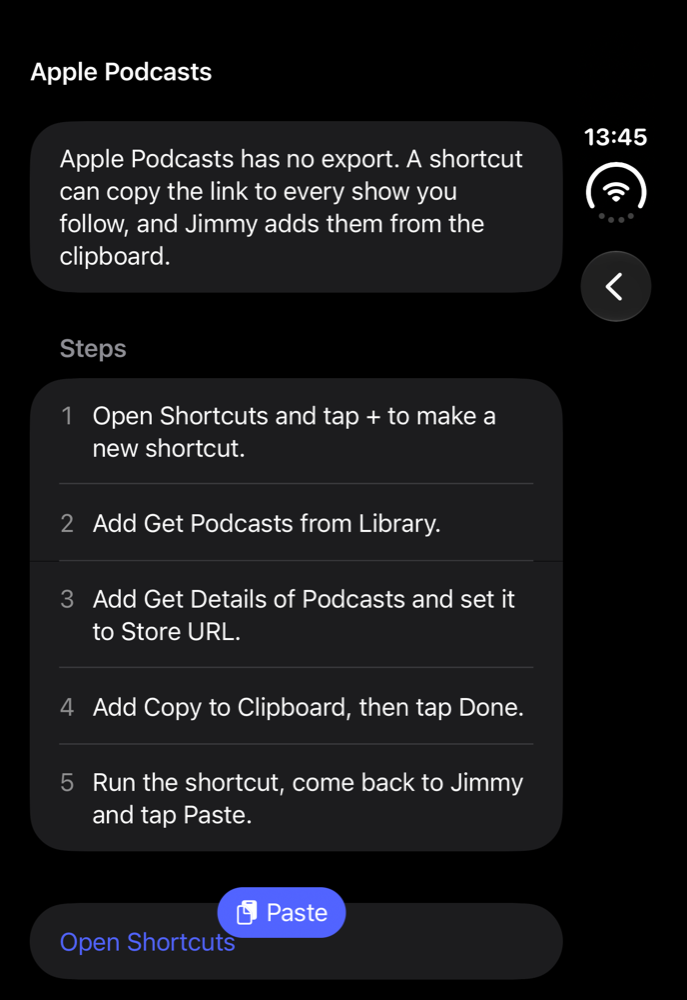
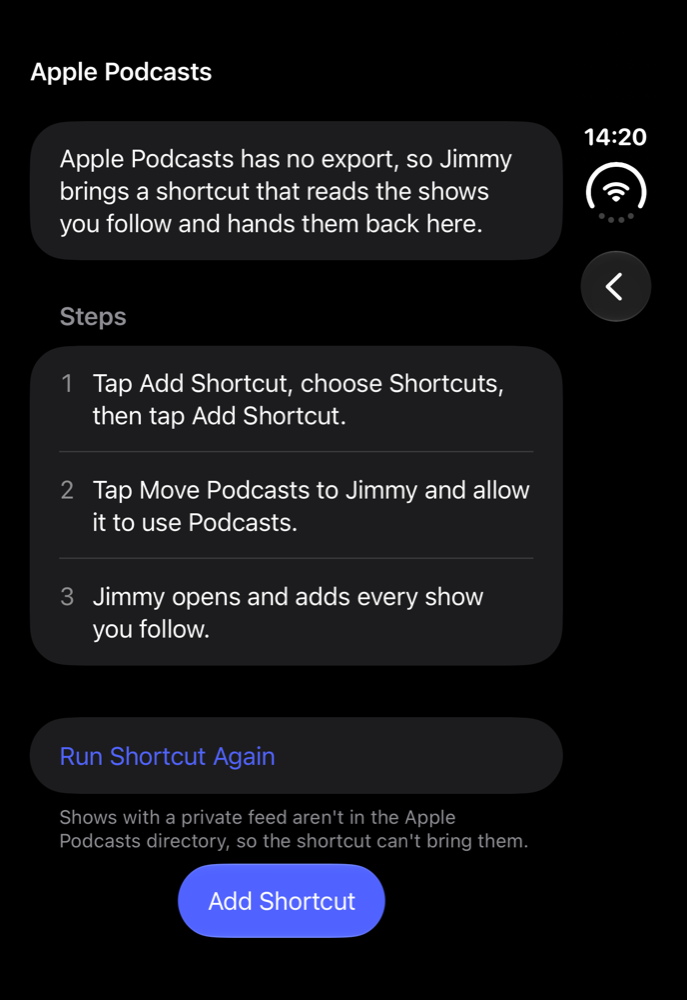
Apple Podcasts import in four taps: a signed shortcut that hands your shows to Jimmy (#32)
* jimmy://import?text= starts an import from show links or bare Apple Podcasts ids, for the Apple Podcasts shortcut

* Apple Podcasts: ship a signed Move Podcasts to Jimmy shortcut that hands every followed show to jimmy://import

---------

Changed region(s): [[0.0306, 0.589, 0.8253, 0.992], [0.0306, 0.155, 0.8253, 0.558], [0.8559, 0.124, 0.9476, 0.155]]

diff --git a/Jimmy/Onboarding/OnboardingView.swift b/Jimmy/Onboarding/OnboardingView.swift
@@ -74,6 +74,7 @@ struct OnboardingView: View {
             importPendingFiles()
         }
         .onChange(of: onboarding.pendingFiles) { importPendingFiles() }
+        .onChange(of: onboarding.pendingText) { importPendingFiles() }
         // A file shared while an import was running waits for it to finish.
         .onChange(of: onboarding.session.isRunning) { importPendingFiles() }
     }
@@ -96,10 +97,15 @@ struct OnboardingView: View {
 
     /// Files shared to Jimmy, whether the flow was already open or opened for them.
     private func importPendingFiles() {
-        guard !onboarding.pendingFiles.isEmpty, !onboarding.session.isRunning else { return }
-        let files = onboarding.pendingFiles
-        onboarding.pendingFiles = []
-        startImport(files: files)
+        guard !onboarding.session.isRunning else { return }
+        if let text = onboarding.pendingText {
+            onboarding.pendingText = nil
+            start { session, model in await session.run(pastedText: text, model: model) }
+        } else if !onboarding.pendingFiles.isEmpty {
+            let files = onboarding.pendingFiles
+            onboarding.pendingFiles = []
+            startImport(files: files)
+        }
     }
 
     private func startImport(files: [URL]) {
@@ -200,8 +206,14 @@ struct ImportSourceView: View {
             if let startURL = source.startURL, source.isInstalled || source == .overcast || source == .applePodcasts {
                 Section {
                     Button(source.startTitle) { openURL(startURL) }
+                } footer: {
+                    if source == .applePodcasts {
+                        Text("Shows with a private feed aren't in the Apple Podcasts directory, "
+                            + "so the shortcut can't bring them.")
+                    }
                 }
             }
+
         }
         .navigationTitle(source.name)
         .navigationBarTitleDisplayMode(.inline)
@@ -223,13 +235,13 @@ struct ImportSourceView: View {
     @ViewBuilder
     private var primaryAction: some View {
         Group {
-            if source == .applePodcasts {
-                PasteButton(payloadType: String.self) { strings in
-                    let text = strings.joined(separator: "\n")
-                    onStart { session, model in await session.run(pastedText: text, model: model) }
+            if source == .applePodcasts, let shortcut = ApplePodcastsShortcut.fileURL {
+                ShareLink(item: shortcut, preview: SharePreview(ApplePodcastsShortcut.name)) {
+                    Text("Add Shortcut")
                 }
-                .labelStyle(.titleAndIcon)
-                .buttonBorderShape(.capsule)
+                .buttonStyle(.glassProminent)
+            } else if source == .applePodcasts {
+                pasteButton
             } else if source == .spotify, SpotifyConfig.isConfigured {
                 Button("Choose Files") { isChoosingFile = true }
                     .buttonStyle(.glass)
@@ -242,6 +254,16 @@ struct ImportSourceView: View {
         .frame(maxWidth: .infinity)
         .padding(.horizontal, JimmyDesign.Spacing.lg)
         .padding(.bottom, JimmyDesign.Spacing.sm)
+    }
+
+    /// For show links copied from Apple Podcasts (Share > Copy Link) or anywhere else.
+    private var pasteButton: some View {
+        PasteButton(payloadType: String.self) { strings in
+            let text = strings.joined(separator: "\n")
+            onStart { session, model in await session.run(pastedText: text, model: model) }
+        }
+        .labelStyle(.titleAndIcon)
+        .buttonBorderShape(.capsule)
     }
 
     private func signInWithSpotify() async {

diff --git a/Jimmy/Onboarding/ImportSource.swift b/Jimmy/Onboarding/ImportSource.swift
@@ -40,8 +40,8 @@ enum ImportSource: String, CaseIterable, Identifiable, Hashable {
     var summary: String {
         switch self {
         case .applePodcasts:
-            "Apple Podcasts has no export. A shortcut can copy the link to every show you follow, "
-                + "and Jimmy adds them from the clipboard."
+            "Apple Podcasts has no export, so Jimmy brings a shortcut that reads the shows you follow "
+                + "and hands them back here."
         case .spotify where SpotifyConfig.isConfigured:
             "Sign in once and Jimmy adds your saved shows, then puts your saved episodes in the Queue "
                 + "where you left off."
@@ -64,11 +64,9 @@ enum ImportSource: String, CaseIterable, Identifiable, Hashable {
         switch self {
         case .applePodcasts:
             [
-                "Open Shortcuts and tap + to make a new shortcut.",
-                "Add Get Podcasts from Library.",
-                "Add Get Details of Podcasts and set it to Store URL.",
-                "Add Copy to Clipboard, then tap Done.",
-                "Run the shortcut, come back to Jimmy and tap Paste."
+                "Tap Add Shortcut, choose Shortcuts, then tap Add Shortcut.",
+                "Tap Move Podcasts to Jimmy and allow it to use Podcasts.",
+                "Jimmy opens and adds every show you follow."
             ]
         case .spotify:
             [
@@ -123,7 +121,7 @@ enum ImportSource: String, CaseIterable, Identifiable, Hashable {
     /// Where the steps start: the app, Shortcuts for Apple Podcasts, Overcast's website.
     var startURL: URL? {
         switch self {
-        case .applePodcasts: URL(string: "shortcuts://")
+        case .applePodcasts: ApplePodcastsShortcut.runURL
         case .overcast: URL(string: "https://overcast.fm/account")
         default: scheme.flatMap { URL(string: "\($0)://") }
         }
@@ -131,7 +129,7 @@ enum ImportSource: String, CaseIterable, Identifiable, Hashable {
 
     var startTitle: String {
         switch self {
-        case .applePodcasts: "Open Shortcuts"
+        case .applePodcasts: "Run Shortcut Again"
         case .overcast: "Open overcast.fm"
         default: "Open \(name)"
         }
@@ -149,5 +147,23 @@ enum ImportSource: String, CaseIterable, Identifiable, Hashable {
     static func ordered() -> (installed: [ImportSource], others: [ImportSource]) {
         let installed = allCases.filter(\.isInstalled)
         return (installed, allCases.filter { !installed.contains($0) })
+    }
+}
+
+/// "Move Podcasts to Jimmy": Get Podcasts from Library, then each show's Store ID, opened as
+/// `jimmy://import?text=…`. Built and signed by `Tools/shortcut/build.sh`.
+enum ApplePodcastsShortcut {
+    static let name = "Move Podcasts to Jimmy"
+
+    /// The signed shortcut in the app bundle, shared into Shortcuts.
+    static var fileURL: URL? {
+        Bundle.main.url(forResource: name, withExtension: "shortcut")
+    }
+
+    /// Runs it once it's been added.
+    static var runURL: URL? {
+        var components = URLComponents(string: "shortcuts://run-shortcut")
+        components?.queryItems = [URLQueryItem(name: "name", value: name)]
+        return components?.url
     }
 }

diff --git a/Packages/JimmyKit/Sources/JimmyKit/Import/ImportFile.swift b/Packages/JimmyKit/Sources/JimmyKit/Import/ImportFile.swift
@@ -38,16 +38,23 @@ public nonisolated enum ImportFile {
 }
 
 /// Every link in a block of text: RSS feeds, Apple Podcasts show pages and Spotify show pages,
-/// one per line or mixed into prose (a Shortcuts result, a note, a message).
+/// one per line or mixed into prose (a Shortcuts result, a note, a message). A line that is only
+/// an Apple Podcasts id (what Shortcuts' Store ID gives) counts as that show's page.
 public nonisolated enum LinkTextParser {
     public static func parse(_ text: String) -> ImportResult {
         guard let detector = try? NSDataDetector(types: NSTextCheckingResult.CheckingType.link.rawValue) else {
             return ImportResult(feeds: [], skipped: [])
         }
         let range = NSRange(text.startIndex..., in: text)
-        let candidates = detector.matches(in: text, range: range).compactMap { match -> ImportedFeed? in
+        var candidates = detector.matches(in: text, range: range).compactMap { match -> ImportedFeed? in
             guard let url = match.url, let scheme = url.scheme?.lowercased(),
                   ["http", "https", "feed", "itpc", "pcast"].contains(scheme), url.host != nil else { return nil }
+            return ImportedFeed(feedURL: url, title: nil)
+        }
+        candidates += text.components(separatedBy: CharacterSet(charactersIn: "\n,;")).compactMap { line in
+            let trimmed = line.trimmingCharacters(in: .whitespaces)
+            guard (6...12).contains(trimmed.count), trimmed.allSatisfy(\.isASCIIDigit),
+                  let url = URL(string: "https://podcasts.apple.com/podcast/id\(trimmed)") else { return nil }
             return ImportedFeed(feedURL: url, title: nil)
         }
         let (feeds, skipped) = FeedDeduplicator.deduplicate(candidates)
@@ -75,4 +82,8 @@ public nonisolated enum ShowLink: Sendable, Equatable {
             self = .feed(url)
         }
     }
+}
+
+private nonisolated extension Character {
+    var isASCIIDigit: Bool { isASCII && isNumber }
 }

diff --git a/Jimmy/Onboarding/Onboarding.swift b/Jimmy/Onboarding/Onboarding.swift
@@ -16,6 +16,8 @@ final class Onboarding {
     var isPresented = false
     /// Files shared to Jimmy (an OPML from Overcast's share sheet, say) waiting for the flow.
     var pendingFiles: [URL] = []
+    /// Show links handed over by Jimmy's Apple Podcasts shortcut, through `jimmy://import`.
+    var pendingText: String?
     private(set) var session = LibraryImportSession()
 
     private let defaults: UserDefaults
@@ -51,6 +53,20 @@ final class Onboarding {
     func present(files: [URL] = []) {
         pendingFiles = files
         isPresented = true
+    }
+
+    func present(text: String) {
+        pendingText = text
+        isPresented = true
+    }
+
+    /// The links in `jimmy://import?text=…`, which the Apple Podcasts shortcut opens with every
+    /// show's Store URL or id.
+    static func importText(from url: URL) -> String? {
+        guard url.scheme?.lowercased() == "jimmy", url.host?.lowercased() == "import" else { return nil }
+        let items = URLComponents(url: url, resolvingAgainstBaseURL: false)?.queryItems ?? []
+        let text = items.first { $0.name == "text" }?.value ?? ""
+        return text.trimmingCharacters(in: .whitespacesAndNewlines).isEmpty ? nil : text
     }
 
     func finish() {

diff --git a/Packages/JimmyKit/Tests/JimmyKitTests/Import/OnboardingImportTests.swift b/Packages/JimmyKit/Tests/JimmyKitTests/Import/OnboardingImportTests.swift
@@ -224,6 +224,11 @@ struct ImportFileTests {
         #expect(ShowLink(feeds[2].feedURL) == .feed(URL(string: "https://example.com/rss")!))
     }
 
+    @Test func bareAppleIDsFromShortcuts() {
+        let feeds = LinkTextParser.parse("1200361736\n917918570\n42\n").feeds
+        #expect(feeds.map { ShowLink($0.feedURL) } == [.apple(id: 1_200_361_736), .apple(id: 917_918_570)])
+    }
+
     @Test func mergeDeduplicates() throws {
         let a = ImportResult(feeds: [ImportedFeed(feedURL: URL(string: "https://e.com/a.xml")!, title: "A")], skipped: [], showNames: [ImportedShowName(title: "S", publisher: nil)])
         let b = ImportResult(feeds: [ImportedFeed(feedURL: URL(string: "https://E.com/a.xml/")!, title: "A")], skipped: [], showNames: [ImportedShowName(title: "s", publisher: "P")])

diff --git a/Tests/JimmyTests/OnboardingTests.swift b/Tests/JimmyTests/OnboardingTests.swift
@@ -38,6 +38,13 @@ final class OnboardingTests: XCTestCase {
         XCTAssertTrue(defaults.bool(forKey: Onboarding.completedKey))
     }
 
+    func testImportLinkFromShortcut() throws {
+        let url = try XCTUnwrap(URL(string: "jimmy://import?text=1200361736%0A917918570"))
+        XCTAssertEqual(Onboarding.importText(from: url), "1200361736\n917918570")
+        XCTAssertNil(Onboarding.importText(from: try XCTUnwrap(URL(string: "jimmy://import?text="))))
+        XCTAssertNil(Onboarding.importText(from: try XCTUnwrap(URL(string: "jimmy://queue"))))
+    }
+
     func testSharedFilesThatAreImports() {
         XCTAssertTrue(Onboarding.isImportFile(URL(fileURLWithPath: "/tmp/overcast.opml")))
         XCTAssertTrue(Onboarding.isImportFile(URL(fileURLWithPath: "/tmp/YourLibrary.JSON")))

diff --git a/Jimmy/JimmyApp.swift b/Jimmy/JimmyApp.swift
@@ -232,6 +232,11 @@ struct JimmyApp: App {
     // MARK: - URL Handling
     
     private func handleURL(_ url: URL) {
+        if let text = Onboarding.importText(from: url) {
+            Onboarding.shared.present(text: text)
+            return
+        }
+
         // Try deep link router first
         if let deepLink = DeepLinkRouter.shared.parse(url: url) {
             Task { @MainActor in

diff --git a/Tools/shortcut/make_shortcut.py b/Tools/shortcut/make_shortcut.py
@@ -1,0 +1,55 @@
+#!/usr/bin/env python3
+"""Writes the unsigned "Move Podcasts to Jimmy" shortcut.
+
+Get Podcasts from Library -> Get Details of Podcast (Store ID) -> Combine Text (new lines)
+-> URL Encode -> Open jimmy://import?text=<links>. Jimmy reads the links (see
+Onboarding.importText(from:)) and imports them. Sign the output with
+`shortcuts sign --mode anyone` (Tools/shortcut/build.sh) before shipping it.
+"""
+import plistlib
+import sys
+import uuid
+
+
+def ref(output_uuid, name):
+    return {"Value": {"OutputUUID": output_uuid, "Type": "ActionOutput", "OutputName": name},
+            "WFSerializationType": "WFTextTokenAttachment"}
+
+
+def action(identifier, uid, **parameters):
+    return {"WFWorkflowActionIdentifier": identifier,
+            "WFWorkflowActionParameters": {"UUID": uid, **parameters}}
+
+
+podcasts, details, combined, encoded = (str(uuid.uuid4()).upper() for _ in range(4))
+placeholder = ""
+prefix = "jimmy://import?text="
+
+shortcut = {
+    "WFWorkflowClientVersion": "2607.0.2",
+    "WFWorkflowMinimumClientVersion": 900,
+    "WFWorkflowMinimumClientVersionString": "900",
+    "WFWorkflowIcon": {"WFWorkflowIconStartColor": 463140863, "WFWorkflowIconGlyphNumber": 61440},
+    "WFWorkflowImportQuestions": [],
+    "WFWorkflowInputContentItemClasses": [],
+    "WFWorkflowTypes": [],
+    "WFWorkflowHasShortcutInputVariables": False,
+    "WFWorkflowActions": [
+        action("is.workflow.actions.getpodcastsfromlibrary", podcasts),
+        action("is.workflow.actions.properties.podcastshow", details,
+               WFInput=ref(podcasts, "Podcasts"), WFContentItemPropertyName="Store ID"),
+        action("is.workflow.actions.text.combine", combined,
+               text=ref(details, "Store ID"), WFTextSeparator="New Lines"),
+        action("is.workflow.actions.urlencode", encoded,
+               WFInput=ref(combined, "Combined Text"), WFEncodeMode="Encode"),
+        action("is.workflow.actions.openurl", str(uuid.uuid4()).upper(),
+               WFInput={"Value": {"string": prefix + placeholder,
+                                  "attachmentsByRange": {f"{{{len(prefix)}, 1}}": {
+                                      "OutputUUID": encoded, "Type": "ActionOutput",
+                                      "OutputName": "URL Encoded Text"}}},
+                        "WFSerializationType": "WFTextTokenString"}),
+    ],
+}
+
+with open(sys.argv[1], "wb") as out:
+    plistlib.dump(shortcut, out, fmt=plistlib.FMT_BINARY)

diff --git a/docs/research/onboarding-import.md b/docs/research/onboarding-import.md
@@ -188,7 +188,7 @@ This is what `Jimmy/Onboarding/` builds. Screenshots in light and dark are in `d
 **Principles taken from the research**
 - No sign-up wall and no permission prompt at launch. The first screen is the import itself, and **Skip** is always in the toolbar.
 - One primary action per screen. If a source app is installed, it is "Import from Overcast". If none is, it is "Choose an Export File", and Jimmy works out the format itself (`ImportFile.kind(of:)`: OPML, Spotify data download, Google Takeout, Apple bulk JSON, or plain text with links).
-- Each source gets the shortest path it allows: a sign-in where an API exists (Spotify, when a client ID is configured), a file with exact steps where it doesn't, and the clipboard for Apple Podcasts.
+- Each source gets the shortest path it allows: a sign-in where an API exists (Spotify, when a client ID is configured), a file with exact steps where it doesn't, and Jimmy's own shortcut for Apple Podcasts.
 - The import is visible while it runs. Rows appear at once, and each show's artwork fills in as its feed arrives. Six shows are added at a time.
 - At the end, Jimmy says what came over and opens the Queue if anything was in progress, otherwise the Library.
 
@@ -220,7 +220,7 @@ This is what `Jimmy/Onboarding/` builds. Screenshots in light and dark are in `d
 |---|---|---|
 | Overcast | Steps to overcast.fm/account, All Data, then Choose File (or share the file to Jimmy) | Shows, played episodes, progress. In-progress episodes go to the Queue. |
 | Spotify | Sign In with Spotify (PKCE) when `SPOTIFY_CLIENT_ID` is set; otherwise the data-download steps and Choose Files (several files at once) | Saved shows, matched by name. Saved episodes go to the Queue with their resume point. Streaming history adds progress; under a minute is ignored. |
-| Apple Podcasts | Steps for a four-action shortcut that copies each show's Store URL, then the system Paste button (no clipboard prompt) | Shows, resolved through the iTunes Lookup API by Apple ID. |
+| Apple Podcasts | **Add Shortcut** shares Jimmy's bundled, signed "Move Podcasts to Jimmy" shortcut into Shortcuts. One tap runs it: Get Podcasts from Library, then each show's Store ID, then `jimmy://import?text=…`, and Jimmy imports | Shows, resolved through the iTunes Lookup API by Apple ID. |
 | Pocket Casts, Castro, others | Steps to export OPML, then Choose File (or share the file to Jimmy) | Shows. |
 | Start fresh | Browse Top Shows opens Discover | Nothing to import. |
 
@@ -235,8 +235,21 @@ This is what `Jimmy/Onboarding/` builds. Screenshots in light and dark are in `d
 - Sharing an `.opml` file to Jimmy (from Overcast, Files or Mail) opens the flow and starts the import.
 - `-resetOnboarding` shows it again. `-skipOnboarding` hides it. `-demoLibrary` hides it unless `-resetOnboarding` is also passed.
 
+**Apple Podcasts in about four taps**
+1. In Jimmy, tap Add Shortcut and choose Shortcuts in the share sheet.
+2. Tap Add Shortcut.
+3. Tap Move Podcasts to Jimmy, then allow it to use Podcasts.
+4. Jimmy opens, and every followed show arrives.
+
+- `Tools/shortcut/make_shortcut.py` writes the shortcut, using the action identifiers found in this Mac's system cache: `is.workflow.actions.getpodcastsfromlibrary`, `properties.podcastshow` (Store ID), `text.combine`, `urlencode` and `openurl`.
+- `Tools/shortcut/build.sh` signs it with `shortcuts sign --mode anyone` into `Jimmy/Resources/`. Signed files can be shared from an app without an iCloud link (iOS 15+).
+- The payload goes through a URL rather than x-callback, because iOS 26.5 broke x-callback result return.
+- "Run Shortcut Again" opens `shortcuts://run-shortcut?name=…`.
+- Not verified: the simulator has neither Podcasts nor Shortcuts, so the shortcut needs a first run on a device. It can't carry played state or progress: no Shortcuts property exposes them.
+
+**Rejected: the Apple Podcasts website.** Since August 2024, podcasts.apple.com shows a signed-in user's Library, Up Next and progress, through `amp-api.podcasts.apple.com` with a media user token. That is the only path to Apple history. It would mean asking for an Apple ID sign-in inside a Jimmy web view and calling an undocumented Apple API. That looks like phishing, is likely to fail App Review, and breaks whenever Apple changes the site.
+
 **Next steps, not built**
-- A hosted iCloud shortcut link for Apple Podcasts, which would make it two taps: Add Shortcut, then Run. This needs Chen to publish the shortcut.
-- A `jimmy://import` App Intent, so the shortcut can hand Jimmy the list without the clipboard.
+- An iCloud link for the same shortcut, which would skip the share sheet. Chen can publish it from a device.
 - Spotify Extended Quota, needed before sign-in can work for the public.
 - Reading the privacy.apple.com Podcasts files, once their exact file names are confirmed from a real download.
